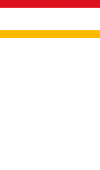
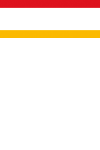
adjust layout

Changed region(s): [[0.0, 0.16, 1.0, 0.2667], [0.0, 0.0267, 1.0, 0.0533]]

diff --git a/app/assets/stylesheets/application.sass.scss b/app/assets/stylesheets/application.sass.scss
@@ -28,8 +28,8 @@ body {
 
 #mequi {
     position: absolute;
-    top: 110px;
-    right: 110px;
+    top: 90px;
+    right: 90px;
     background-color: transparent;
 }
 
